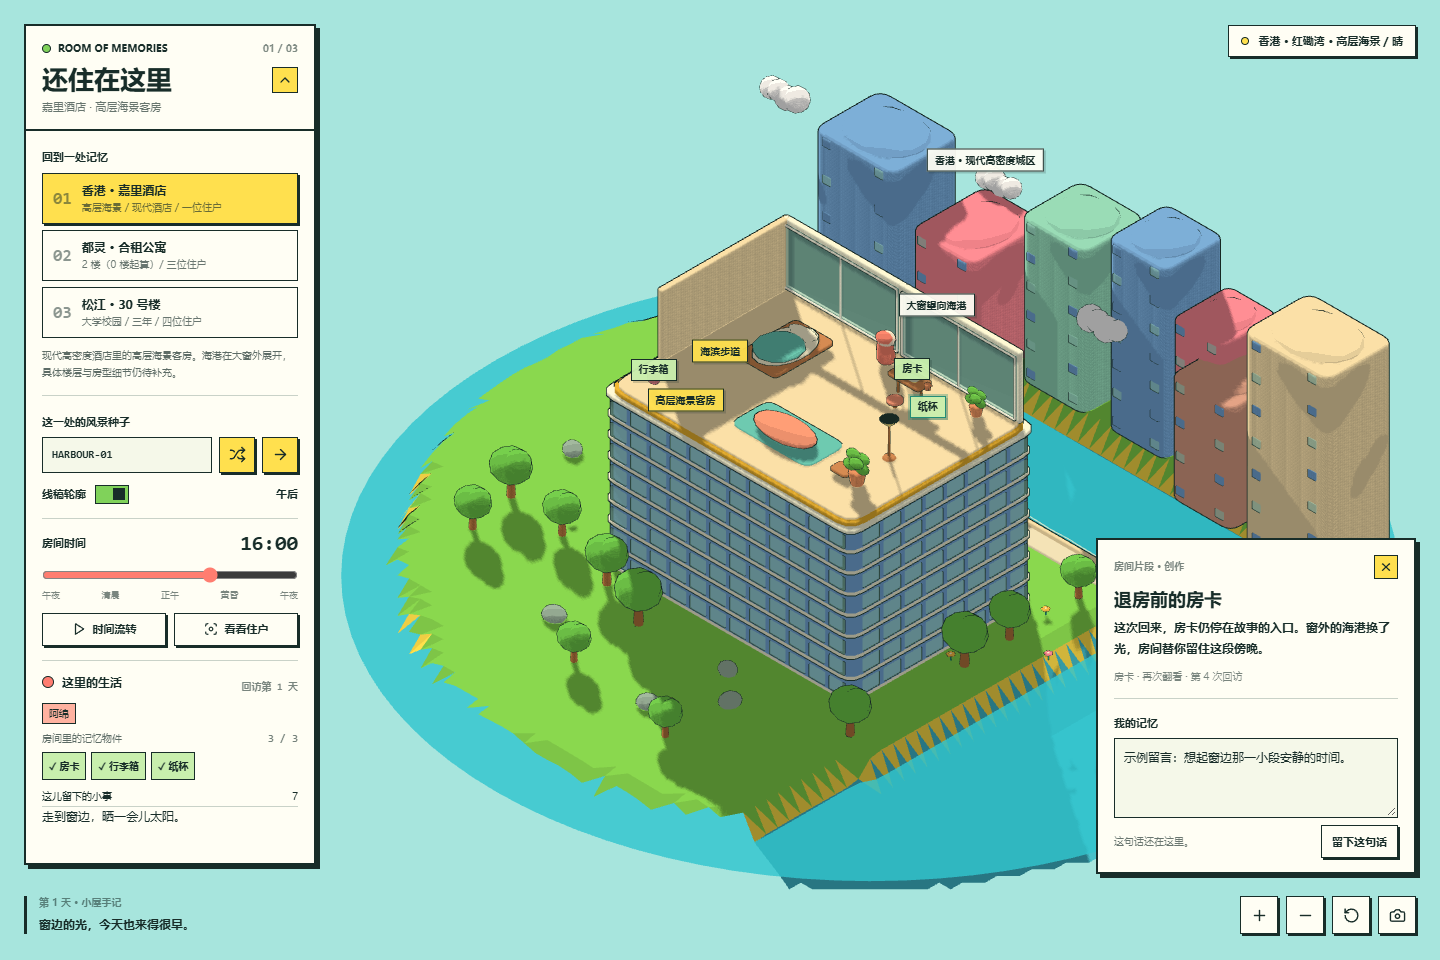
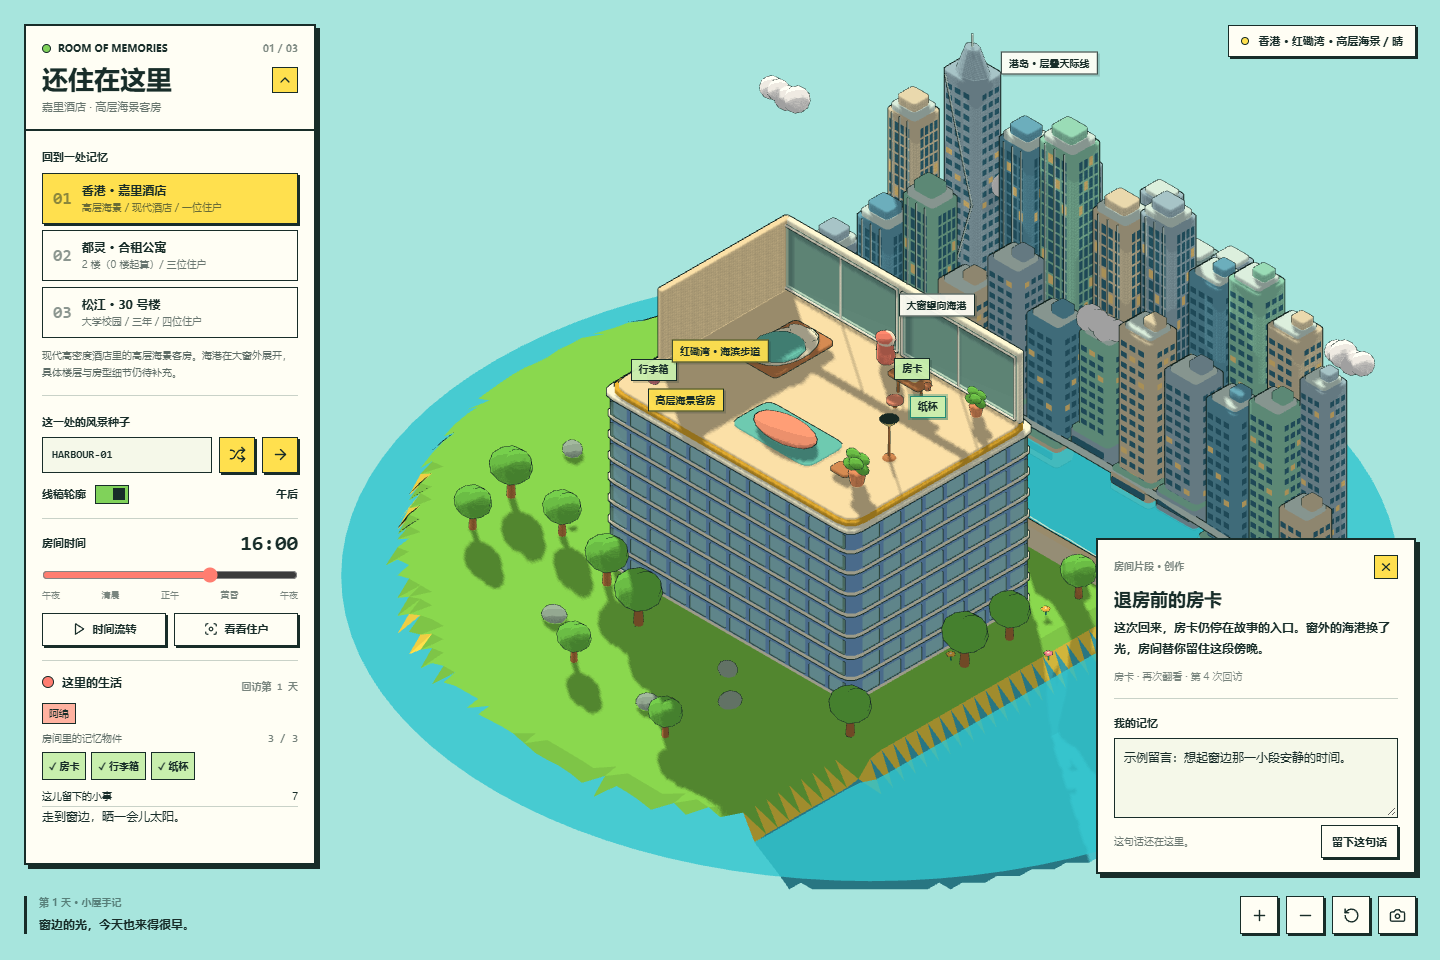
Enrich Hong Kong waterfront skyline

Changed region(s): [[0.5625, 0.0312, 0.9688, 0.5625], [0.6875, 0.5312, 0.75, 0.6875], [0.4688, 0.3438, 0.5312, 0.375]]

diff --git a/index.html b/index.html
@@ -309,7 +309,10 @@ try{
   hull:toon('#182d29',{side:THREE.BackSide}),
   hitTarget:toon('#ffffff',{transparent:true,opacity:0,depthWrite:false,colorWrite:false}),
   cream:toon('#f5dfad'),terracotta:toon('#dd8561'),road:toon('#7b928c'),paving:toon('#eee2bd'),
-  blue:toon('#7aaedf'),lilac:toon('#bd9adb'),mint:toon('#96dbbd'),brick:toon('#dfa38a')
+  blue:toon('#7aaedf'),lilac:toon('#bd9adb'),mint:toon('#96dbbd'),brick:toon('#dfa38a'),
+  harbourSteel:toon('#a3c3cf'),harbourBlue:toon('#69adc3'),harbourWarm:toon('#e4d8b4'),
+  harbourGlass:toon('#37798e'),harbourTrim:toon('#d7eee5'),harbourFar:toon('#a2c8c4'),
+  harbourLit:toon('#ffdc88',{emissive:'#ffc86c',emissiveIntensity:.08})
  };
  const materialSet=new Set(Object.values(mat));
  function hash(s){let h=2166136261;for(let i=0;i<s.length;i++){h^=s.charCodeAt(i);h=Math.imul(h,16777619)}return h>>>0}
@@ -328,12 +331,13 @@ try{
   const mainland=THREE.MathUtils.smoothstep(z,-11+shore,-8.6+shore)*(1-THREE.MathUtils.smoothstep(x,12.5+shore,15+shore));
   const farBank=1-THREE.MathUtils.smoothstep(z,-18,-15.8);
   const land=state.place==='hotel'?(1-THREE.MathUtils.smoothstep(r,25.5,29))*Math.max(mainland,farBank):1;
-  const rolling=.9+fbm(x*.07,z*.07)*(state.place==='dorm'?.36:.28);
+  const ridge=state.place==='hotel'?THREE.MathUtils.smoothstep(-z,21.2,26)*(1-THREE.MathUtils.smoothstep(Math.abs(x),8,18))*(4.8+fbm(x*.12,z*.1)*2.6):0;
+  const rolling=.9+fbm(x*.07,z*.07)*(state.place==='dorm'?.36:.28)+ridge;
   let y=THREE.MathUtils.lerp(-3.4,rolling,land);
   const roomBlend=1-THREE.MathUtils.smoothstep(Math.max(Math.abs(x)/13,Math.abs(z-HOME.z)/9),.96,1.2);
   return THREE.MathUtils.lerp(y,1.05,roomBlend);
  }
- function band(y){return new THREE.Color(state.place==='hotel'&&y<-.7?'#45bfd1':y<.25?(state.place==='hotel'?'#ffe04e':'#d4cba2'):state.place==='turin'?'#a9c77d':'#87d751')}
+ function band(y){return new THREE.Color(state.place==='hotel'&&y<-.7?'#45bfd1':state.place==='hotel'&&y>2.2?'#63a998':y<.25?(state.place==='hotel'?'#ffe04e':'#d4cba2'):state.place==='turin'?'#a9c77d':'#87d751')}
  function smoothNormalGeometry(geometry){
   const g=geometry.clone(),p=g.attributes.position,n=g.attributes.normal,acc=new Map();
   for(let i=0;i<p.count;i++){
@@ -480,19 +484,72 @@ try{
    for(let row=0;row<rows;row++)for(let col=0;col<columns;col++){const wx=-w*.34+col*w*.68/(columns-1),wy=.48+row*(h-1)/Math.max(1,rows-1);slab(building,.56,.08,.46,(row+col)%2?mat.glass:mat.blue,[wx,wy,front],.12)}
    ellipsoid(building,1,material,[0,h+.1,0],[w*.47,.34,d*.46],1);return building;
   }
+  function harbourTower(x,z,w,d,h,style='residential',layer='waterfront',tone=0){
+   const g=new THREE.Group();g.position.set(x,height(x,z)+.04,z);root.add(g);
+   const palette=layer==='rear'?[mat.harbourFar,mat.harbourSteel]:[mat.harbourWarm,mat.harbourSteel,mat.harbourBlue,mat.mint];
+   const material=palette[tone%palette.length],body=slab(g,w,d,h,material,[0,0,0],Math.min(w,d)*.16);
+   body.userData={feature:'harbourTower',style,layer};
+   // Batch all four facades into two meshes instead of a mesh for every window.
+   const panes=[],lit=[],quad=(target,a,b,c,d)=>target.push(...a,...b,...c,...a,...c,...d);
+   const floors=Math.max(4,Math.round(h/.78)),columns=style==='office'?4:3;
+   for(let row=0;row<floors;row++)for(let col=0;col<columns;col++){
+    const left=-w*.39+col*w*.78/columns,right=left+w*.78/columns*.67;
+    const bottom=.33+row*(h-.65)/floors,top=bottom+(h-.65)/floors*(style==='office'?.8:.5);
+    const target=(row*7+col*3+tone)%11===0?lit:panes;
+    quad(target,[left,bottom,d/2+.045],[right,bottom,d/2+.045],[right,top,d/2+.045],[left,top,d/2+.045]);
+    quad(target,[right,bottom,-d/2-.045],[left,bottom,-d/2-.045],[left,top,-d/2-.045],[right,top,-d/2-.045]);
+    const back=-d*.36+col*d*.72/columns,front=back+d*.72/columns*.67;
+    quad(target,[w/2+.045,bottom,front],[w/2+.045,bottom,back],[w/2+.045,top,back],[w/2+.045,top,front]);
+    quad(target,[-w/2-.045,bottom,back],[-w/2-.045,bottom,front],[-w/2-.045,top,front],[-w/2-.045,top,back]);
+   }
+   for(const [positions,windowMaterial] of [[panes,mat.harbourGlass],[lit,mat.harbourLit]]){
+    if(!positions.length)continue;
+    const geometry=new THREE.BufferGeometry();geometry.setAttribute('position',new THREE.Float32BufferAttribute(positions,3));geometry.computeVertexNormals();
+    const facade=mesh(g,geometry,windowMaterial,[0,0,0],[1,1,1],false);facade.castShadow=false;
+   }
+   if(style==='office'){
+    for(const fraction of [-.28,0,.28])rod(g,[w*fraction,.2,d/2+.065],[w*fraction,h,d/2+.065],.035,mat.harbourTrim);
+    slab(g,w*.84,d*.84,.36,mat.harbourTrim,[0,h+.02,0],.24);
+    slab(g,w*.59,d*.59,.58,material,[0,h+.36,0],.22);
+   }else if(style==='crown'){
+    const crown=mesh(g,new THREE.CylinderGeometry(w*.18,w*.43,1.7,8),material,[0,h+.8,0],[1,1,d/w]);crown.userData.feature='harbourCrown';
+    rod(g,[0,h+1.5,0],[0,h+2.5,0],.045,mat.harbourTrim);
+    rod(g,[-w*.4,.4,d/2+.08],[w*.4,h*.5,d/2+.08],.035,mat.harbourTrim);
+    rod(g,[w*.4,h*.5,d/2+.08],[-w*.4,h-.2,d/2+.08],.035,mat.harbourTrim);
+   }else{
+    slab(g,w*.77,d*.77,.25,mat.harbourTrim,[0,h+.01,0],.2);
+    if(layer!=='rear')slab(g,w*.37,d*.42,.52,material,[w*.14,h+.24,-d*.1],.16);
+   }
+   return g;
+  }
+  function harbourPodium(x,z,w,d,h,tone=0){
+   const g=new THREE.Group();g.position.set(x,height(x,z)+.02,z);root.add(g);
+   slab(g,w,d,h,tone%2?mat.harbourWarm:mat.harbourSteel,[0,0,0],.28).userData.feature='harbourPodium';
+   slab(g,w*.96,d*.95,.16,mat.mint,[0,h+.02,0],.26);
+   slab(g,w*.8,.07,.32,mat.harbourGlass,[0,h*.45,d/2+.06],.025);
+   return g;
+  }
   function parkTree(x,z,pine=false,size=1){const tree=makeTree(x,z,pine,size);tree.position.y=height(x,z)+.04;return tree}
   function buildNeighbourhood(){
    const path=(x,z,w,d,material,h=.12)=>{const p=slab(root,w,d,h,material,[x,height(x,z)+h/2-.04,z],.5);p.castShadow=false;return p};
    if(state.place==='hotel'){
     path(-3.8,-7.3,31,1.3,mat.paving);for(let x=-18;x<=10;x+=3.2)path(x,-7.3,.075,1.1,mat.trim,.035);path(-3.8,-8,31,.18,mat.cream,.3);
-    roundedBuilding(-16.7,-18,6,5,11,mat.blue,5);roundedBuilding(-9.5,-18,4.6,5.5,8.2,mat.pink,4);roundedBuilding(17,-18,6.4,5,14,mat.cream,7);roundedBuilding(10.3,-18,4.5,4.8,8,mat.brick,4);
-    roundedBuilding(-3.4,-20,4.8,4.5,10.8,mat.mint,6);roundedBuilding(3.1,-20,4.3,4.4,12.6,mat.blue,7);roundedBuilding(7.7,-20,3.6,4.2,9.6,mat.pink,5);
+    // Compressed Hung Hom / Victoria Harbour / Hong Kong Island spatial relationship.
+    // Commercial, residential, and rear-hill forms are composed for the diorama, not surveyed.
+    const front=[[-19,-16.2,2.2,2,7.4],[-15.8,-17,2.5,2.1,8.2],[-12.5,-17.2,2.4,2,10.5],[-9.2,-16.8,2.6,2.2,7.7],[-5.9,-17.3,2.5,2.1,9.2],[-2.5,-17,2.6,2.1,8.1],[1,-17.5,2.5,2,7],[4.5,-17.2,2.6,2.1,10],[8,-17.3,2.6,2.2,8.5],[11.5,-16.9,2.4,2.1,9.7],[14.7,-17,2.4,2,10.8],[18,-16,2.3,2,8.1]];
+    const middle=[[-16,-19.4,2.2,2,12.3],[-12.5,-20.5,2.6,2,16],[-8.8,-21,2.4,2,13],[-5.1,-20.7,2.7,2.2,14.8],[-1.3,-21,2.7,2.1,11.8],[2.6,-20.7,2.5,2,13.7],[6.1,-21,2.5,2.1,11.3],[9.7,-20.5,2.5,2.1,13],[13.5,-19.7,2.5,2,12.1],[16.9,-18.5,2,1.8,10.8]];
+    const rear=[[-10.2,-23,1.8,1.5,6.3],[-7.2,-23.6,2,1.6,8.6],[-4.2,-23.6,2,1.5,7.1],[-1.2,-24,2,1.5,9],[1.8,-23.7,2,1.6,7],[4.8,-23.5,1.9,1.5,8.4],[7.8,-23,1.9,1.5,6.7],[10.8,-22.5,1.9,1.5,8]];
+    rear.forEach((p,i)=>harbourTower(...p,'residential','rear',i));
+    middle.forEach((p,i)=>harbourTower(...p,i===1?'crown':i<6?'office':'residential','middle',i));
+    front.forEach((p,i)=>{harbourPodium(p[0],p[1]+.24,p[2]+.45,p[3]+.35,1.15,i);harbourTower(...p,i<3?'office':'residential','waterfront',i+1)});
+    const bankPoints=[[-20.2,-15.6],[-14,-15.7],[-7,-15.8],[0,-15.9],[7,-15.8],[14,-15.5],[19.5,-15.2]].map(([x,z])=>new THREE.Vector3(x,Math.max(.05,height(x,z))+.08,z));
+    const quay=mesh(root,new THREE.TubeGeometry(new THREE.CatmullRomCurve3(bankPoints),42,.18,5,false),mat.harbourTrim);quay.userData.feature='harbourQuay';
     parkTree(-15,-6,false,.9);parkTree(11.3,-5,false,.9);
     const ferry=new THREE.Group();ferry.position.set(19,-.48,-3);ferry.rotation.y=-.5;root.add(ferry);
     ellipsoid(ferry,1,mat.trim,[0,0,0],[1.7,.25,.65],1).userData.feature='harbourBoat';
     slab(ferry,1.9,.76,.43,mat.frame,[0,.12,0],.28);slab(ferry,1.35,.8,.12,mat.floor,[-.15,.56,0],.28);
     for(const x of [-.45,.15,.65])ellipsoid(ferry,.16,mat.blue,[x,.35,.4],[1,.7,.25],1);
-    label('香港 · 现代高密度城区',-12,11,-21);label('海滨步道',-19,1.4,-7.3,true);label('海港 · 高层窗景',20,0,-9);
+    label('港岛 · 层叠天际线',-8,19,-22);label('红磡湾 · 海滨步道',-19,1.4,-7.3,true);label('维多利亚港',20,0,-9);
    }else if(state.place==='turin'){
     path(0,-14,44,5.8,mat.road,.2);for(let x=-19;x<=19;x+=4.4)path(x,-14,1.05,.18,mat.paving,.05);
     roundedBuilding(-17,-20,7,6,6.4,mat.terracotta,4);roundedBuilding(-7,-20,8,6,7.8,mat.cream,5);roundedBuilding(4.5,-20,8,6,6.5,mat.brick,4);roundedBuilding(15.6,-20,7,6,8,mat.pink,5);
@@ -829,6 +886,7 @@ try{
   const night=new THREE.Color('#56677c'),day=new THREE.Color(place().sky);
   scene.background.copy(night).lerp(day,daylight);
   const glow=1-daylight,sleeping=schedule(state.time).station==='sleep';
+  mat.harbourLit.emissiveIntensity=.04+glow*.85;
   lampShade.material.emissive.set('#ffbb39');lampShade.material.emissiveIntensity=glow*(sleeping?.18:.75);
   lampLight.intensity=glow*(sleeping?1.6:12);
  }

diff --git a/docs/locations.md b/docs/locations.md
@@ -12,6 +12,18 @@
 
 具体楼层数字、真实房型、门窗尺寸、家具和邻楼排列尚未提供，采用简化创作布局；海港意象不是对实际窗景的逐楼复刻。公开原型不展示具体入住日期。
 
+### 香港城市背景参考
+
+背景按“红磡湾的酒店与步道 → 维多利亚港水面 → 港岛城市海岸 → 后方山脊”的关系进行风格化压缩。参考材料：
+
+- [嘉里酒店官方介绍](https://www.shangri-la.com/hongkong/kerry/about/)：酒店位于九龙红磡湾的城市海滨。
+- [嘉里酒店官方交通与地图](https://www.shangri-la.com/hongkong/kerry/about/map-directions/)：用于理解酒店与港湾周边的相对位置。
+- [香港旅游发展局：维多利亚港](https://www.discoverhongkong.com/eng/explore/attractions/victoria-harbour.html)：参考港湾两岸的城市天际线。
+
+场景设有 12 栋沿岸塔楼、10 栋中景塔楼、8 栋后排楼宇及 12 组裙房。商业高楼采用竖向幕墙、退台冠部或八角锥顶；住宅塔楼采用密排窗格和较平的屋顶。海岸曲线、楼群高度与山脊共同形成前后层次，部分窗户随房间昼夜明暗变化。
+
+街区布局、塔楼轮廓、楼高和色彩均为创作取舍；这里表达高密度海滨城市的尺度与节奏，不对应精确地图、真实地标模型、实际窗景或入住朝向。资料页面与场景在 2026-10-22 核对及更新。
+
 ## 都灵：三人合租公寓
 
 用户确认的事实：

diff --git a/README.md b/README.md
@@ -26,6 +26,12 @@
 
 这三个场景是根据用户描述建立的**风格化空间示意**。香港已确认高层海景，客房以抬升的室内剖面、大窗和密集楼群表现；都灵的 2 楼按地面为 0 楼计算，也就是从地面数第三层。真实户型、家具、门窗位置与具体窗景仍待补充。香港楼身的楼层带为压缩示意，不代表实际入住楼层或酒店总层数。事实与推断的记录见 [地点记录](docs/locations.md)。
 
+### 香港：隔着海，看一座城市
+
+香港背景参考红磡湾、维多利亚港和港岛城市海岸的空间关系，扩展为 **30 栋塔楼、12 组低层裙房**：沿岸建筑、中景高楼与后排楼群交错排列，山脊由连续噪声地形生成。细长住宅窗格、办公楼竖向幕墙、退台冠部与八角锥顶让建筑有不同的轮廓；入夜时，部分窗户会亮起暖光。
+
+这是压缩距离与比例的城市意象，建筑样式经过创作组合，不表示逐栋复原了酒店窗外的楼宇或朝向。窗格按材质合并生成，增加楼群密度时减少细碎绘制对象。地理参考及示意边界记录在 [地点记录](docs/locations.md#香港城市背景参考)。
+
 ## 一件物品，一小段记忆
 
 ![打开记忆物件，留下自己的话](docs/preview-memory.png)
